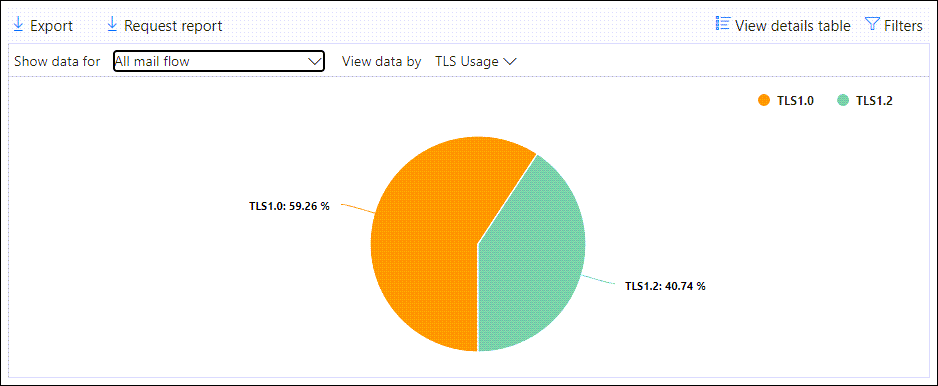
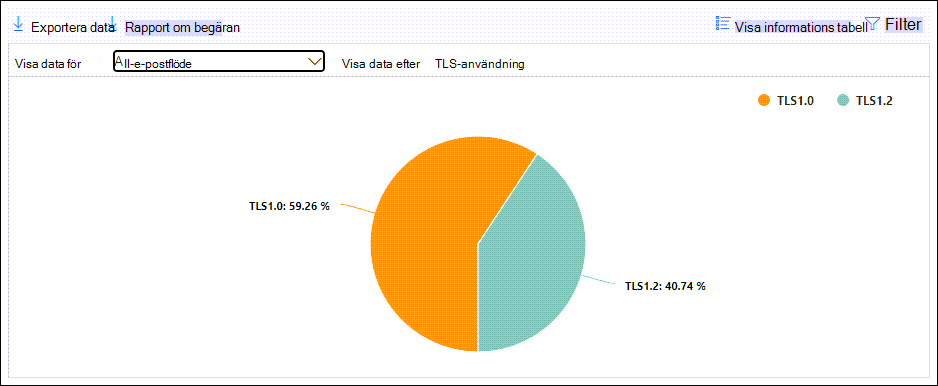
commit translated contents

diff --git a/microsoft-365/enterprise/connect-to-all-microsoft-365-services-in-a-single-windows-powershell-window.md b/microsoft-365/enterprise/connect-to-all-microsoft-365-services-in-a-single-windows-powershell-window.md
@@ -18,28 +18,27 @@ ms.custom:
 - httpsfix
 ms.assetid: 53d3eef6-4a16-4fb9-903c-816d5d98d7e8
 description: 'Sammanfattning: Ansluta till alla Microsoft 365-tjänster i ett enda PowerShell-fönster.'
-ms.openlocfilehash: 36b16b491aa97e7329e440e2c1fb01b8a221a2b6
-ms.sourcegitcommit: 22755cebfbfa2c4dc3f8b4f54ccb23636a211ee5
+ms.openlocfilehash: 04be916f745e2bde70554045340fc8ec03f87413
+ms.sourcegitcommit: 66b8fc1d8ba4f17487cd2004ac19cf2fff472f3d
 ms.translationtype: HT
 ms.contentlocale: sv-SE
-ms.lasthandoff: 10/15/2020
-ms.locfileid: "48477059"
+ms.lasthandoff: 10/24/2020
+ms.locfileid: "48754322"
 ---
 # <a name="connect-to-all-microsoft-365-services-in-a-single-powershell-window"></a>Ansluta till alla Microsoft 365-tjänster i ett enda PowerShell-fönster
 
-När du använder PowerShell för att hantera Microsoft 365 går det att ha flera olika PowerShell-sessioner öppna samtidigt i olika PowerShell-fönster som hör till hanterade användarkonton, SharePoint Online, Exchange Online, Skype för företag – Online, Microsoft Teams och Säkerhets- &amp; efterlevnadscenter. 
+När du använder PowerShell för att hantera Microsoft 365 kan du ha flera PowerShell-sessioner öppna samtidigt. Du kanske har olika PowerShell-fönster för att hantera användarkonton, SharePoint Online, Exchange Online, Skype för företag – Online, Microsoft Teams och Säkerhets- och &amp; efterlevnadscentret.
   
-Du kan inte använda det här alternativet för att hantera Microsoft 365 eftersom du inte kan utbyta data mellan fönstren för hantering av flera tjänster. I den här artikeln beskrivs hur du använder en enda instans av PowerShell, som du kan använda för att hantera Microsoft 365-konton, Skype för företag – Online, Exchange Online, SharePoint Online, Microsoft Teams och Säkerhets- &amp; efterlevnadscenter.
+Det här scenariot är inte optimalt för att hantera Microsoft 365 eftersom du inte kan utbyta data mellan fönstren för hantering av flera tjänster. Den här artikeln beskriver hur du använder en enda instans av PowerShell för att hantera Microsoft 365-konton, Skype för Företag – Online, Exchange Online, SharePoint Online, Microsoft Teams och Säkerhets- och &amp; efterlevnadscentret.
 
 >[!Note]
->I den här artikeln finns för närvarande bara kommandon för att ansluta till molnet över hela världen (+GCC). I kommentarerna finns länkar till artiklar med information om hur du ansluter till andra Microsoft 365-moln.
->
+>Den här artikeln innehåller för närvarande bara kommandon för att ansluta till det världsomfattande (+GCC) molnet. I kommentarerna finns länkar till artiklar om anslutning till andra Microsoft 365-moln.
 
 ## <a name="before-you-begin"></a>Innan du börjar
 
 Innan du kan hantera hela Microsoft 365 från en enda instans av PowerShell måste följande förutsättningar vara uppfyllda:
   
-- Det Microsoft 365-konto för arbete eller skola som du använder för de här procedurerna måste vara medlem i en administratörsroll för Microsoft 365. Mer information finns i [Om administratörsroller](https://docs.microsoft.com/microsoft-365/admin/add-users/about-admin-roles). Det här är ett krav för PowerShell för Microsoft 365, inte nödvändigtvis för alla andra Microsoft 365-tjänster.
+- Det Microsoft 365-kontot för arbete eller skola som du använder måste vara en medlem i en administratörsroll för Microsoft 365. Mer information finns i [Om administratörsroller](https://docs.microsoft.com/microsoft-365/admin/add-users/about-admin-roles). Det här är ett krav för PowerShell för Microsoft 365, men inte nödvändigtvis för alla andra Microsoft 365-tjänster.
     
 - Du kan använda följande 64-bitars versioner av Windows:
     
@@ -57,7 +56,7 @@ Innan du kan hantera hela Microsoft 365 från en enda instans av PowerShell mås
     
   - Windows Server 2008 R2 SP1*
     
-    \* Du måste installera Microsoft .NET Framework 4.5.*x* och sedan antingen Windows Management Framework 3.0 eller Windows Management Framework 4.0. Mer information finns i [installera .NET Framework](https://go.microsoft.com/fwlink/p/?LinkId=257868) och [Windows Management Framework 3.0](https://go.microsoft.com/fwlink/p/?LinkId=272757) eller [Windows Management Framework 4.0](https://go.microsoft.com/fwlink/p/?LinkId=391344).
+    \* Du måste installera Microsoft .NET Framework 4,5. *x* och sedan Windows Management Framework 3,0 eller 4,0. Mer information finns i [Windows Management Framework](https://docs.microsoft.com/powershell/scripting/windows-powershell/wmf/overview?view=powershell-7).
     
     Du måste använda en 64-bitars version av Windows på grund av kraven för Skype för företag – Online-modulen och en av Microsoft 365-modulerna.
     
@@ -69,19 +68,17 @@ Innan du kan hantera hela Microsoft 365 från en enda instans av PowerShell mås
   - [Exchange Online PowerShell V2](https://docs.microsoft.com/powershell/exchange/exchange-online-powershell-v2#install-and-maintain-the-exchange-online-powershell-v2-module)
   - [Teams PowerShell översikt](https://docs.microsoft.com/microsoftteams/teams-powershell-overview)
     
--  PowerShell måste konfigureras för körning av signerade skript för Skype för företag – Online och Säkerhets- &amp; efterlevnadscenter. Det gör du genom att köra följande kommando i en upphöjd PowerShell-session (ett PowerShell-fönster som du öppnar genom att välja **Kör som administratör**).
+-  PowerShell måste konfigureras för körning av signerade skript för Skype för Företag – Online och Säkerhets- och &amp; efterlevnadscentret. Kör följande kommando i en upphöjd PowerShell-session (ett PowerShell-fönster som du **Kör som administratör** ).
     
    ```powershell
    Set-ExecutionPolicy RemoteSigned
    ```
 
-## <a name="exchange-online-and-security-amp-compliance-center-with-the-exchange-online-powershell-v2-module"></a>Exchange Online och Säkerhets &amp; Efterlevnadscenter med modulen Exchange Online PowerShell V2
+## <a name="exchange-online-and-security-amp-compliance-center-with-the-exchange-online-powershell-v2-module"></a>Exchange Online och Säkerhets- och &amp; Efterlevnadscenter med modulen Exchange Online PowerShell V2
 
-I den här artikeln används Exchange Online PowerShell V2-modulen för att ansluta till både Exchange Online och Säkerhets &amp; Efterlevnadscenter. Men för närvarande går det inte att ansluta till både Exchange Online och Säkerhets &amp; Efterlevnadscenter **i samma PowerShell-fönster**.
+Procedurerna i den här artikeln använder Exchange Online PowerShell V2-modulen för att ansluta till både Exchange Online och Säkerhets- och &amp; efterlevnadscentret. Men för närvarande kan du inte ansluta till båda *i samma PowerShell-fönster* . Så du måste välja att ansluta till den ena eller den andra när du konfigurerar ett PowerShell-fönster för flera Microsoft 365-tjänster.
 
-Därför måste du välja en anslutning med endera Exchange Online *eller* Säkerhets &amp; Efterlevnadscenter när du konfigurerar ett PowerShell-fönster för flera Microsoft 365-tjänster.
-
-## <a name="connection-steps-when-using-just-a-password"></a>Anslutningssteg när du bara använder ett lösenord
+## <a name="connection-steps-when-using-just-a-password"></a>Anslutningssteg vid användning av bara ett lösenord
 
 Här är några steg för att ansluta till alla tjänster i ett enda PowerShell-fönster när du bara använder ett lösenord för inloggning.
   
@@ -99,23 +96,23 @@ Här är några steg för att ansluta till alla tjänster i ett enda PowerShell-
    Connect-AzureAD -Credential $credential
    ```
   
-   Om du använder modulen Microsoft Azure Active Directory-modul för Windows PowerShell kör du det här kommandot.
+   Om du använder Microsoft Azure Active Directory-modulen för Windows PowerShell-modulen, kör det här kommandot.
       
    ```powershell
    Connect-MsolService -Credential $credential
    ```
 
    > [!Note]
-   > PowerShell Core stöder inte Microsoft Azure Active Directory-modul för Windows PowerShell-modulen och-cmdlets med **MSOL** i namnet. Om du vill fortsätta använda dessa cmdlets måste du köra dem från PowerShell.
+   > PowerShell Core stöder inte Microsoft Azure Active Directory-modulen för Windows PowerShell-modulen och cmdlets med *MSOL* i deras namn. Du måste köra dessa cmdlets från PowerShell.
 
-4. Kör dessa kommandon för att ansluta till SharePoint Online. Ange organisationsnamnet för din domän. Till exempel, för "litwareinc.onmicrosoft.com" är organisationensnamnet "litwareinc".
+4. Kör dessa kommandon för att ansluta till SharePoint Online. Ange organisationsnamnet för din domän. Till exempel, för "litwareinc\.onmicrosoft.com" är organisationens namnvärdet "litwareinc".
     
    ```powershell
    $orgName="<for example, litwareinc for litwareinc.onmicrosoft.com>"
    Connect-SPOService -Url https://$orgName-admin.sharepoint.com -Credential $userCredential
    ```
 
-5. Kör dessa kommandon för att ansluta till Skype för företag – Online. Ett varningsmeddelande om att öka `WSMan NetworkDelayms` värdet förväntas första gången du ansluter och ska ignoreras.
+5. Kör dessa kommandon för att ansluta till Skype för Företag – Online. En varning om att öka `WSMan NetworkDelayms` värdet visas första gången du ansluter. Ignorera det.
      
    > [!Note]
    > Skype för företag – Online-Connector är för närvarande en del av den senaste versionen av Teams PowerShell-modul. Om du använder den senaste versionen av Teams PowerShell, behöver du inte installera Skype för företag – Online-Connector.
@@ -136,7 +133,7 @@ Här är några steg för att ansluta till alla tjänster i ett enda PowerShell-
    > [!Note]
    > Om du vill ansluta till Exchange Online för Microsoft 365-moln som inte är världsomspännande se [-Ansluta till Exchange Online PowerShell](https://docs.microsoft.com/powershell/exchange/connect-to-exchange-online-powershell).
 
-7. Kör dessa kommandon för att ansluta till Säkerhets &amp; Efterlevnadscenter.
+   Alternativt, kör dessa kommandon för att ansluta till Säkerhets- och &amp; efterlevnadscentret.
     
    ```powershell
    $acctName="<UPN of the account, such as belindan@litwareinc.onmicrosoft.com>"
@@ -147,7 +144,7 @@ Här är några steg för att ansluta till alla tjänster i ett enda PowerShell-
    > [!Note]
    > Om du vill ansluta till &amp; säkerhet- och efterlevnadscenter för Microsoft 365-moln, annat än världsomspännande läser du [Ansluta till Säkerhets- och efterlevnadscenter PowerShell](https://docs.microsoft.com/powershell/exchange/connect-to-scc-powershell).
 
-8. Kör dessa kommandon för att ansluta till Teams PowerShell.
+   Kör dessa kommandon för att ansluta till Teams PowerShell.
     
    ```powershell
    Import-Module MicrosoftTeams
@@ -155,12 +152,12 @@ Här är några steg för att ansluta till alla tjänster i ett enda PowerShell-
    ```
   
    > [!Note]
-   > Om du vill ansluta till Microsoft Teams-moln som inte är världsomspännande läser du [Connect-MicrosoftTeams](https://docs.microsoft.com/powershell/module/teams/connect-microsoftteams).
+   > För att ansluta till Microsoft Teams-moln som inte är *världsomspännande* , se [Connect-MicrosoftTeams](https://docs.microsoft.com/powershell/module/teams/connect-microsoftteams).
 
 
-### <a name="azure-active-directory-powershell-for-graph-module"></a>Azure Active Directory PowerShell för modulen Graph
+### <a name="azure-active-directory-powershell-for-graph-module"></a>Azure Active Directory PowerShell för Graph-modulen
 
-Här följer kommandon för alla tjänster *, förutom Säkerhets &amp; Efterlevnadscenter* i ett enda block med hjälp av modulen Azure Active Directory PowerShell för modulen Graph. Ange namnet på domänvärden och kör alla samtidigt.
+Här följer kommandon för alla tjänster *förutom Säkerhets- och &amp; efterlevnadscentret* i ett enda block när du använder Azure Active Directory PowerShell för Graph-modulen. Ange namnet på din domänvärd och kör alla samtidigt.
   
 ```powershell
 $orgName="<for example, litwareinc for litwareinc.onmicrosoft.com>"
@@ -177,7 +174,7 @@ Import-Module MicrosoftTeams
 Connect-MicrosoftTeams -Credential $credential
 ```
 
-Här följer kommandon för alla tjänster *, förutom Exchange Online * i ett enda block med hjälp av modulen Azure Active Directory PowerShell för modulen Graph. Ange namnet på domänvärden och UPN på din inloggning och kör alla samtidigt.
+Här följer kommandon för alla tjänster *förutom Exchange Online* i ett enda block när du använder Azure Active Directory PowerShell för Graph-modulen. Ange namnet på din domänvärd och UPN på inloggning och kör alla samtidigt.
   
 ```powershell
 $orgName="<for example, litwareinc for litwareinc.onmicrosoft.com>"
@@ -195,9 +192,9 @@ Import-Module MicrosoftTeams
 Connect-MicrosoftTeams -Credential $credential
 ```
 
-### <a name="microsoft-azure-active-directory-module-for-windows-powershell-module"></a>Microsoft Azure Active Directory-modulen för modulen Windows PowerShell
+### <a name="microsoft-azure-active-directory-module-for-windows-powershell-module"></a>Microsoft Azure Active Directory-modulen för Windows PowerShell-modulen
 
-Här följer kommandon för alla tjänster *, förutom Säkerhets &amp; Efterlevnadscenter* i ett enda block med hjälp av modulen Microsoft Azure Active Directory för modulen PowerShell. Ange namnet på domänvärden och kör alla samtidigt.
+Här följer kommandon för alla tjänster *förutom Säkerhets- och &amp; efterlevnadscentret* i ett enda block när du använder Microsoft Azure Active Directory-modulen för Windows PowerShell-modulen. Ange namnet på din domänvärd och kör alla samtidigt.
   
 ```powershell
 $orgName="<for example, litwareinc for litwareinc.onmicrosoft.com>"
@@ -214,7 +211,7 @@ Import-Module MicrosoftTeams
 Connect-MicrosoftTeams -Credential $credential
 ```
 
-Här följer kommandon för alla tjänster *, förutom Exchange Online* i ett enda block med hjälp av modulen Microsoft Azure Active Directory för modulen Windows PowerShell. Ange namnet på domänvärden och UPN på din inloggning och kör alla samtidigt.
+Här följer kommandon för alla tjänster *förutom Exchange Online* i ett enda block när du använder Microsoft Azure Active Directory-modulen för Windows PowerShell-modulen. Ange namnet på din domänvärd och UPN för din inloggning och kör alla samtidigt.
   
 ```powershell
 $orgName="<for example, litwareinc for litwareinc.onmicrosoft.com>"
@@ -235,7 +232,7 @@ Connect-MicrosoftTeams -Credential $credential
 
 ### <a name="azure-active-directory-powershell-for-graph-module"></a>Azure Active Directory PowerShell för modulen Graph
 
-Här är alla kommandon i ett enda block för att ansluta till flera Microsoft 365-tjänster *förutom Säkerhets &amp; Efterlevnadscenter * med multifaktorautentisering med hjälp av Azure Active Directory PowerShell för modulen Graph.
+Här är alla kommandon i ett enda block för att ansluta till flera Microsoft 365-tjänster *förutom Säkerhets- och &amp; efterlevnadscentret* när du använder multifaktorautentisering med Azure Active Directory PowerShell för Graph-modulen.
 
 ```powershell
 $acctName="<UPN of the account, such as belindan@litwareinc.onmicrosoft.com>"
@@ -255,7 +252,7 @@ Connect-ExchangeOnline -UserPrincipalName $acctName -ShowProgress $true
 Import-Module MicrosoftTeams
 Connect-MicrosoftTeams
 ```
-Här är alla kommandon i ett enda block för att ansluta till flera Microsoft 365-tjänster *förutom Exchange Online * med multifaktorautentisering med hjälp av Azure Active Directory PowerShell för modulen Graph.
+Här är alla kommandon i ett enda block för att ansluta till flera Microsoft 365-tjänster *förutom Exchange Online* med multifaktorautentisering när du använder Azure Active Directory PowerShell för Graph-modulen.
 
 ```powershell
 $acctName="<UPN of the account, such as belindan@litwareinc.onmicrosoft.com>"
@@ -275,9 +272,9 @@ Connect-IPPSSession -UserPrincipalName $acctName
 Import-Module MicrosoftTeams
 Connect-MicrosoftTeams
 ```
-### <a name="microsoft-azure-active-directory-module-for-windows-powershell-module"></a>Microsoft Azure Active Directory-modulen för modulen Windows PowerShell
+### <a name="microsoft-azure-active-directory-module-for-windows-powershell-module"></a>Microsoft Azure Active Directory-modulen för Windows PowerShell-modulen
 
-Här är alla kommandon i ett enda block för att ansluta till flera Microsoft 365-tjänster *förutom Säkerhets &amp; Efterlevnadscenter* med multifaktorautentisering med hjälp av modulen Microsoft Azure Active Directory för modulen Windows PowerShell..
+Här är alla kommandon i ett enda block för att ansluta till flera Microsoft 365-tjänster *förutom Säkerhets- och &amp; efterlevnadscentret* när du använder multifaktorautentisering med Microsoft Azure Active Directory-modulen för Windows PowerShell-modulen.
 
 ```powershell
 $acctName="<UPN of the account, such as belindan@litwareinc.onmicrosoft.com>"
@@ -297,7 +294,7 @@ Connect-ExchangeOnline -UserPrincipalName $acctName -ShowProgress $true
 Import-Module MicrosoftTeams
 Connect-MicrosoftTeams
 ```
-Här är alla kommandon i ett enda block för att ansluta till flera Microsoft 365-tjänster *förutom Exchange Online * med multifaktorautentisering med hjälp av modulen Microsoft Azure Active Directory för modulen Windows PowerShell.
+Här är alla kommandon i ett enda block för att ansluta till flera Microsoft 365-tjänster *förutom Exchange Online* när du använder multifaktorautentisering med Microsoft Azure Active Directory-modulen för Windows PowerShell-modulen.
 
 ```powershell
 $acctName="<UPN of the account, such as belindan@litwareinc.onmicrosoft.com>"
@@ -320,12 +317,11 @@ Connect-MicrosoftTeams
 
 ## <a name="close-the-powershell-window"></a>Stäng PowerShell-fönstret.
 
-När du är redo att stänga PowerShell-fönstret kör du det här kommandot för att ta bort aktiva sessioner till Skype för företag – Online, SharePoint Online och Teams:
+När du är redo att stänga ner PowerShell-fönstret kör du det här kommandot för att ta bort aktiva sessioner på Skype för Företag – Online, SharePoint Online och Teams:
   
 ```powershell
 Remove-PSSession $sfboSession ; Disconnect-SPOService ; Disconnect-MicrosoftTeams 
 ```
-
 
 ## <a name="see-also"></a>Se även
 
